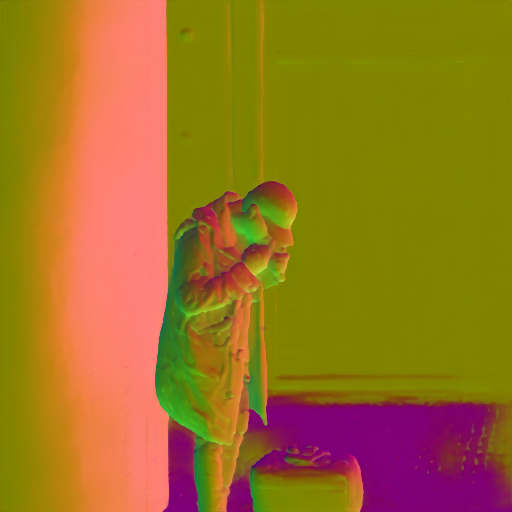
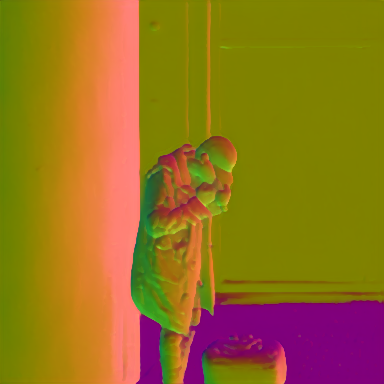
Add poisson

diff --git a/imblend.m b/imblend.m
@@ -1,0 +1,78 @@
+function  output = imblend(source3, mask3, target3)
+    image = zeros(size(source3, 1), size(source3, 2), 1);
+    for channel = 1: 1
+        ind = 0;
+        sparse_i = zeros(1, 5 * size(source3, 1) * size(source3, 2));
+        sparse_j = zeros(1, 5 * size(source3, 1) * size(source3, 2));
+        sparse_s = zeros(1, 5 * size(source3, 1) * size(source3, 2));
+        b = zeros(size(source3, 1) * size(source3, 2), 1);
+        source = source3(:, :, channel);
+        mask = mask3(:, :);
+        target = target3(:, :);
+        for row = 1: size(source, 1)
+            for col = 1: size(source, 2)
+                flat = (row - 1) * size(source, 2) + col;
+                if mask(row, col) == 0
+                    ind = ind + 1;
+                    sparse_i(ind) = flat;
+                    sparse_j(ind) = flat;
+                    sparse_s(ind) = 1;
+                    b(flat) = target(row, col);
+                else 
+                    b_val = 0;
+                    % n_is = [row - 1, row + 1, row, row];
+                    % n_js = [col, col, col - 1, col + 1];
+                    n_is = [row - 1, row];
+                    n_js = [col, col - 1];
+                    num_nei = 0;
+                    for n_ind = 1: 2
+                        n_i = n_is(n_ind);
+                        n_j = n_js(n_ind);
+                        if n_i >= 1 && n_i <= size(source, 1) && n_j >= 1 && n_j <= size(source, 2)
+                            num_nei = num_nei + 1;
+                            if mask(n_i, n_j) == 1
+                                ind = ind + 1;
+                                sparse_i(ind) = flat;
+                                sparse_j(ind) = (n_i - 1) * size(source, 2) + n_j;
+                                sparse_s(ind) = -1;
+                                if n_i == row - 1
+                                    b_val = b_val + source(row, col, 0);
+                                else
+                                    b_val = b_val + source(row, col, 1);
+                                end
+                            else 
+                                if n_i == row - 1
+                                    b_val = b_val + source(row, col, 0) + target(n_i, n_j);
+                                else
+                                    b_val = b_val + source(row, col, 1) + target(n_i, n_j);
+                                end
+                                % b_val = b_val + source(row, col) - source(n_i, n_j) + target(n_i, n_j); 
+                            end
+                        end
+                    end
+                    ind = ind + 1;
+                    sparse_i(ind) = flat;
+                    sparse_j(ind) = flat;
+                    sparse_s(ind) = num_nei;
+                    b(flat) = b_val;
+                end
+            end
+        end
+    
+        sparse_i = sparse_i(1:ind);
+        sparse_j = sparse_j(1:ind);
+        sparse_s = sparse_s(1:ind);
+        A_sparse = sparse(sparse_i, sparse_j, sparse_s, size(source, 1) * size(source, 2), size(source, 1) * size(source, 2));
+        x = A_sparse \ b;
+    
+        for row = 1: size(source, 1)
+            for col = 1: size(source, 2)
+                flat = (row - 1) * size(source, 2) + col;
+                image(row, col, channel) = x(flat);
+            end
+        end
+    end
+    % output = source3 .* mask3 + target3 .* ~mask3;
+    output = image;
+    
+    

diff --git a/test.py b/test.py
@@ -1,8 +1,11 @@
 #%%
+%load_ext autoreload
+%autoreload 2
 import numpy as np
 import matplotlib.pyplot as plt
 # import imread
 from imageio import imread
+from utils import depth_to_normal, normal_to_depth
 # normal = imread('./out/guy_normal.png');
 # depth = imread('./out/guy_depth.png');
 
@@ -14,46 +17,48 @@ from imageio import imread
 
 # python implementation of depth map to normal map
 # normal = imread('./out/guy_normal.png')
-# depth = imread('./out/guy_depth.png')
-depth = imread('./out/0003_high_midas_v2_o2m.png')
-print(depth.shape)
-depth = depth.astype(np.float32) / 255.0
+depth = imread('./out/guy_depth.png')
+# depth = imread('./out/0003_high_midas_v2_o2m.png')
+# depth = imread('./out/0003_high_midas_v2_o2m.png')
+# print(depth.shape)
+# depth = depth.astype(np.float32) / np.max(depth)
+depth = depth.astype(np.float32)
+depth = depth / max(np.max(depth), 1e-6)
 # depth_avg = np.mean(depth, axis=2)
 # print(depth_avg.shape, depth.shape)
 plt.imshow(depth)
-depth_avg = depth
+# depth_avg = depth
 
 def imshow(im):
     plt.figure()
     plt.imshow(im)
 
 
+
 # %%
-def depth_to_normal(depth):
-    z = 1
-    print(depth[:, -1:].shape, depth[:, 1:].shape)
-    dx = np.concatenate((depth[:, 1:], depth[:, -1:]), axis=1) - depth
-    dy = np.concatenate((depth[1:, :], depth[-1:, :]), axis=0) - depth
-    output = np.zeros((depth.shape[0], depth.shape[1], 3))
-    grad_appended_one = np.concatenate((np.expand_dims(-dx, axis=2), np.expand_dims(-dy, axis=2), np.expand_dims(np.ones(depth.shape) * z, axis=2)), axis=2)
-    grad_pixel_wise_norm = np.linalg.norm(grad_appended_one, axis=2)
-    nx = -dx / grad_pixel_wise_norm
-    ny = -dy / grad_pixel_wise_norm
-    nz = z / grad_pixel_wise_norm
-
-    output[:, :, 0] = nx
-    output[:, :, 1] = ny
-    output[:, :, 2] = nz
-
-    return output
-
-normal = depth_to_normal(depth_avg)
+# normal = depth_to_normal(1./(depth))
+normal = depth_to_normal(depth)
+# print(depth)
 
 # out[:, :, 0] = out[:, :, 0] / out_norm
 # out[:, :, 1] = out[:, :, 1] / out_norm
 # out[:, :, 2] = out[:, :, 2] / out_norm
-imshow(depth)
+imshow(normal)
 normal = (normal + 1) / 2
 imshow(normal)
+
+# normal = imread('./out/metro_normal.png')
+# normal = normal.astype(np.float32) / 255.0
+# print(normal)
+# print(normal.shape)
+# unit_normal = normal / np.linalg.norm(normal, axis=2, keepdims=True)
+# print(normalized_normal)
+# pixel_norms = np.linalg.norm(unit_normal, axis=2)
+# print(pixel_norms)
+# imshow(normal)
+# new_depth = normal_to_depth(normal, depth[0, 0])
+# print(new_depth[0, 0], depth[0, 0])
+# imshow(new_depth)
+
 
 # %%

diff --git a/depth_to_normal.m b/depth_to_normal.m
@@ -1,21 +1,12 @@
-% matlab implementation of depth map to normal map
-function  output = depth_to_normal( depth )
-    z = 0.001
-    dx = depth(:, [2:end end]) - depth;
-    dy = depth([2:end end], :) - depth;
-    output = zeros(size(depth,1), size(depth,2), 3);
-    grad_appended_one = cat(3, -dx, -dy, ones(size(depth)) .* z);
-    grad_norm = sum(grad_appended_one.^2, 3);
-    nx = -dx ./ grad_norm;
-    ny = -dy ./ grad_norm;
-    nz = ones(size(depth)) .* z ./ grad_norm;
-    output(:,:,1) = nx;
-    output(:,:,2) = ny;
-    output(:,:,3) = nz;
-    % normalized_out = output ./ sqrt(sum(output.^2, 3));
-    % output = normalized_out;
-    % output(:, :, 3) = 0.001;
-    % normalize each pixel to unit length
-    % output = output ./ sqrt(sum(output.^2, 3));
-    % output(:, :, :) = output(:, :, :) * 100;
-end
+function  image = depth_to_normal(depth)
+    image = zeros(size(depth, 1), size(depth, 2), 3);
+    z = 1;
+    dx = [diff(depth, 1, 2), depth(:, 1) - depth(:, end)];
+    dy = [diff(depth, 1, 1); depth(1, :) - depth(end, :)];
+    grad = cat(3, dx, dy, z * ones(size(depth)));
+    norm = sqrt(sum(grad.^2, 3));
+    image(:, :, 1) = -dx ./ norm;
+    image(:, :, 2) = -dy ./ norm;
+    image(:, :, 3) = z * ones(size(depth)) ./ norm;
+    
+    

diff --git a/utils.py b/utils.py
@@ -1,0 +1,32 @@
+import numpy as np
+
+def depth_to_normal(depth):
+    z = 0.001
+    print(depth[:, -1:].shape, depth[:, 1:].shape)
+    dx = np.concatenate((depth[:, 1:], depth[:, -1:]), axis=1) - depth
+    dy = np.concatenate((depth[1:, :], depth[-1:, :]), axis=0) - depth
+    output = np.zeros((depth.shape[0], depth.shape[1], 3))
+    grad_appended_one = np.concatenate((np.expand_dims(-dx, axis=2), np.expand_dims(-dy, axis=2), np.expand_dims(np.ones(depth.shape) * z, axis=2)), axis=2)
+    grad_pixel_wise_norm = np.linalg.norm(grad_appended_one, axis=2)
+    nx = -dx / grad_pixel_wise_norm
+    ny = -dy / grad_pixel_wise_norm
+    nz = z / grad_pixel_wise_norm
+    # nx = -dx
+    # ny = -dy
+    # nz = z
+
+    output[:, :, 0] = nx
+    output[:, :, 1] = ny
+    output[:, :, 2] = nz
+
+    return output
+
+def normal_to_depth(normal, initial):
+    output = np.zeros((normal.shape[0], normal.shape[1]))
+    output[0, 0] = initial
+    for i in range(1, normal.shape[0]):
+        output[i, 0] = output[i - 1, 0] - normal[i - 1, 0, 1]
+    # fill all the columns
+    for j in range(1, normal.shape[1]):
+        output[:, j] = output[:, j - 1] - normal[:, j - 1, 0]
+    return output

diff --git a/test.m b/test.m
@@ -1,8 +1,25 @@
+% normal = imread('./out/guy_normal.png');
+% depth = imread('./out/guy_depth.png');
 normal = imread('./out/guy_normal.png');
 depth = imread('./out/guy_depth.png');
 
-depth = double(depth) / 255.0;
-depth_avg = mean(depth, 3);
+% depth = double(depth) / max(depth);
+depth = double(depth);
+depth = depth / max(depth(:));
+normal = double(normal);
+normal = normal / max(normal(:));
 
-depth_conv = depth_to_normal(depth_avg);
-imshow(depth_conv)
+% imshow(normal)
+% imshow(depth)
+mask = zeros(size(depth, 1), size(depth, 2));
+mask(1, 1) = 1;
+% mask(1, :) = 1;
+out = imblend(normal, mask, depth);
+imwrite(out, './out/one.png');
+mask(1, :) = 0;
+out = imblend(normal, mask, depth);
+imwrite(out, './out/row.png');
+% imwrite(out, './out/guy_normal_depth2.png');
+% imshow(out)
+% nr = depth_to_normal(depth);
+% imshow(nr)
